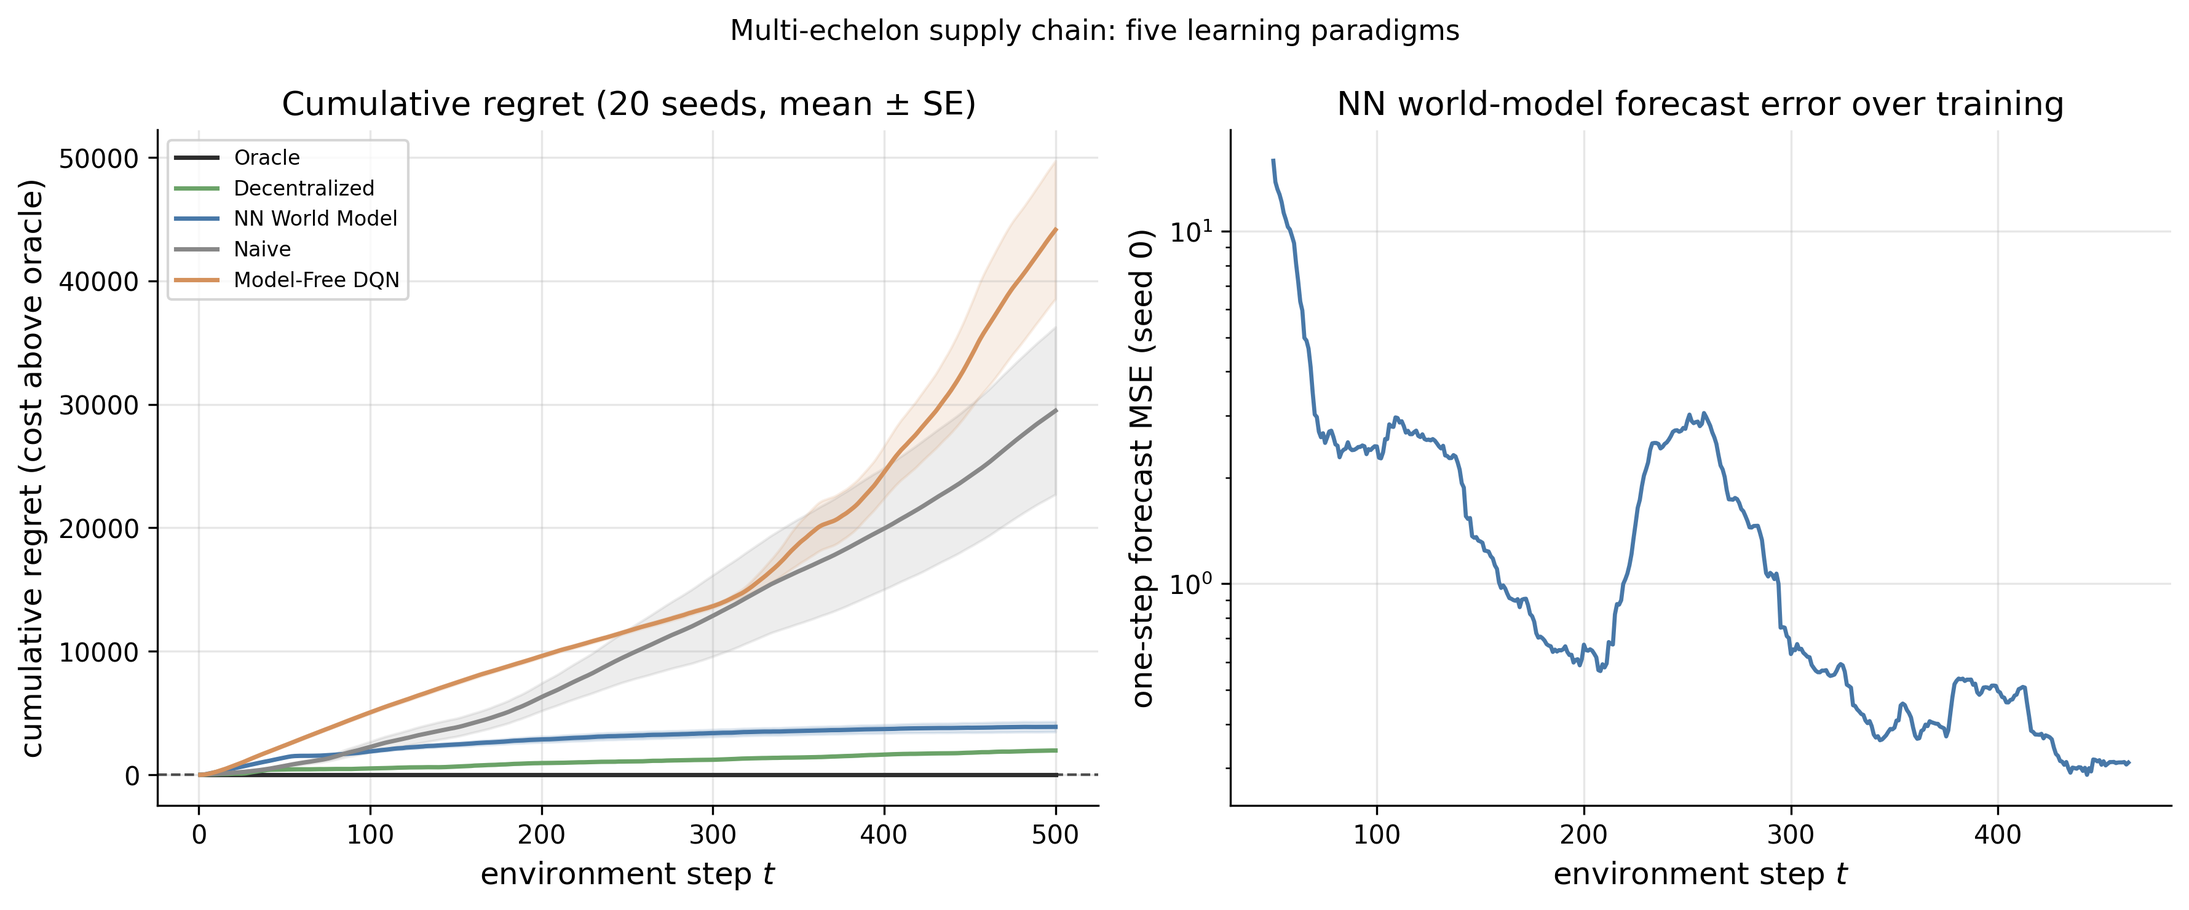
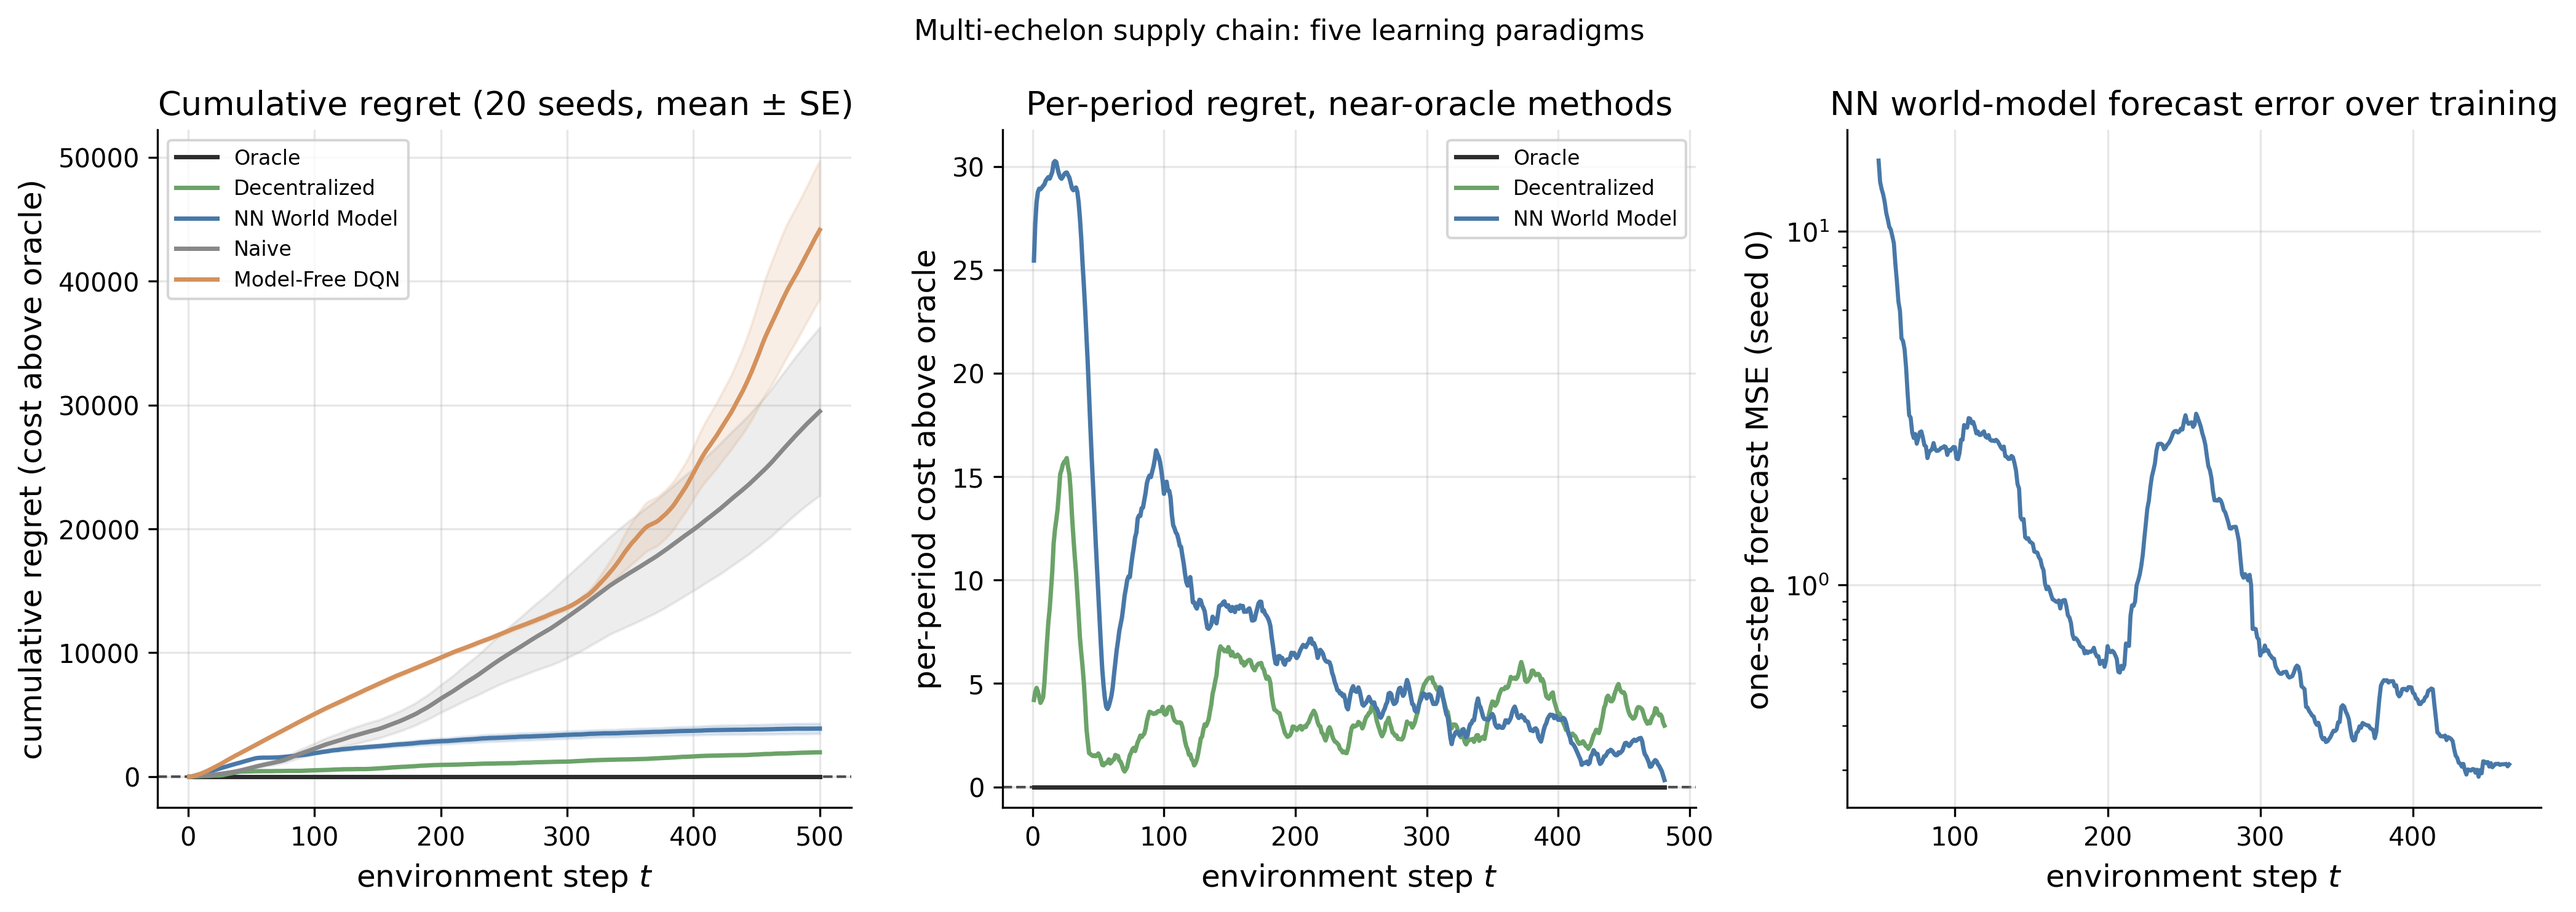
ch12: add per-period-regret panel showing the world-model crossover
Third figure panel plots per-period cost above the oracle over time for the
three near-oracle methods. It shows the world model paying a large exploration
cost early and then converging below the decentralized heuristic, the
asymptotic advantage the table reports as a lower terminal cost.

diff --git a/ch12_world_models/sims/multi_echelon_paradigms.py b/ch12_world_models/sims/multi_echelon_paradigms.py
@@ -30,7 +30,7 @@ import sys
 import numpy as np
 
 sys.path.insert(0, os.path.join(os.path.dirname(__file__), "..", ".."))
-from sims.plot_style import apply_style, COLORS, BENCH_STYLE, FIG_DOUBLE
+from sims.plot_style import apply_style, COLORS, BENCH_STYLE, FIG_TRIPLE
 from sims.sim_cache import compute_or_load, add_component_args, parse_force_set
 
 apply_style()
@@ -836,7 +836,7 @@ def generate_outputs(data):
     t_axis = np.arange(1, T + 1)
     ranked = sorted(PARADIGM_ORDER, key=lambda nm: data["results"][nm]["final_mean"])
 
-    fig, (ax_reg, ax_fc) = plt.subplots(1, 2, figsize=FIG_DOUBLE)
+    fig, (ax_reg, ax_pp, ax_fc) = plt.subplots(1, 3, figsize=FIG_TRIPLE)
 
     for name in ranked:
         res = data["results"][name]
@@ -852,6 +852,31 @@ def generate_outputs(data):
     ax_reg.set_ylabel("cumulative regret (cost above oracle)")
     ax_reg.set_title("Cumulative regret (20 seeds, mean $\\pm$ SE)")
     ax_reg.legend(loc="upper left", fontsize=8)
+
+    # Middle panel: per-period cost above the oracle over time, for the three
+    # near-oracle methods only (the two failing methods are off-scale). The
+    # per-period regret is the increment of the cumulative curve; it shows the
+    # world model paying a high exploration cost early and then converging below
+    # the decentralized heuristic, the asymptotic win the table reports as a
+    # lower terminal cost.
+    near_oracle = ["Oracle", "Decentralized", "NN World Model"]
+    kpp = max(1, T // 25)  # rolling-mean window
+    for name in near_oracle:
+        pp = np.diff(data["results"][name]["mean_curve"], prepend=0.0)
+        sm = np.convolve(pp, np.ones(kpp) / kpp, mode="valid")
+        ax_pp.plot(
+            t_axis[: len(sm)],
+            sm,
+            label=name,
+            color=PARADIGM_COLORS[name],
+            linewidth=1.7,
+        )
+    ax_pp.axhline(0, **BENCH_STYLE)
+    ax_pp.set_ylim(bottom=-1.0)
+    ax_pp.set_xlabel("environment step $t$")
+    ax_pp.set_ylabel("per-period cost above oracle")
+    ax_pp.set_title("Per-period regret, near-oracle methods")
+    ax_pp.legend(loc="upper right", fontsize=8)
 
     # Right panel: NN world-model one-step forecast error over training,
     # showing the learned model sharpens as interaction data accumulates.

diff --git a/ch12_world_models/tex/s11_high_dim_sims.tex b/ch12_world_models/tex/s11_high_dim_sims.tex
@@ -10,7 +10,7 @@ Table~\ref{table:fc_supply_chain} reports cumulative regret against the oracle a
 \begin{figure}[ht]
   \centering
   \includegraphics[width=\textwidth]{../ch12_world_models/sims/multi_echelon_paradigms.png}
-  \caption{Left: cumulative regret against the Clark-Scarf oracle on the two-echelon serial supply chain for five paradigms, means and one-standard-error bands over twenty seeds. Right: the neural world model's one-step forecast mean-squared error over training, seed zero, on a log scale. The world-model and decentralized traces are near zero on the left panel at the scale set by the model-free and naive learners.}
+  \caption{Left: cumulative regret against the Clark-Scarf oracle for five paradigms, means and one-standard-error bands over twenty seeds; the world-model and decentralized traces are near zero at the scale set by the model-free and naive learners. Middle: per-period cost above the oracle over time for the three near-oracle methods, smoothed; the world model pays a large exploration cost early and then converges below the decentralized heuristic, the asymptotic advantage the terminal-cost column of Table~\ref{table:fc_supply_chain} records. Right: the neural world model's one-step forecast mean-squared error over training, seed zero, on a log scale.}
   \label{figure:fc_supply_chain}
 \end{figure}
 
